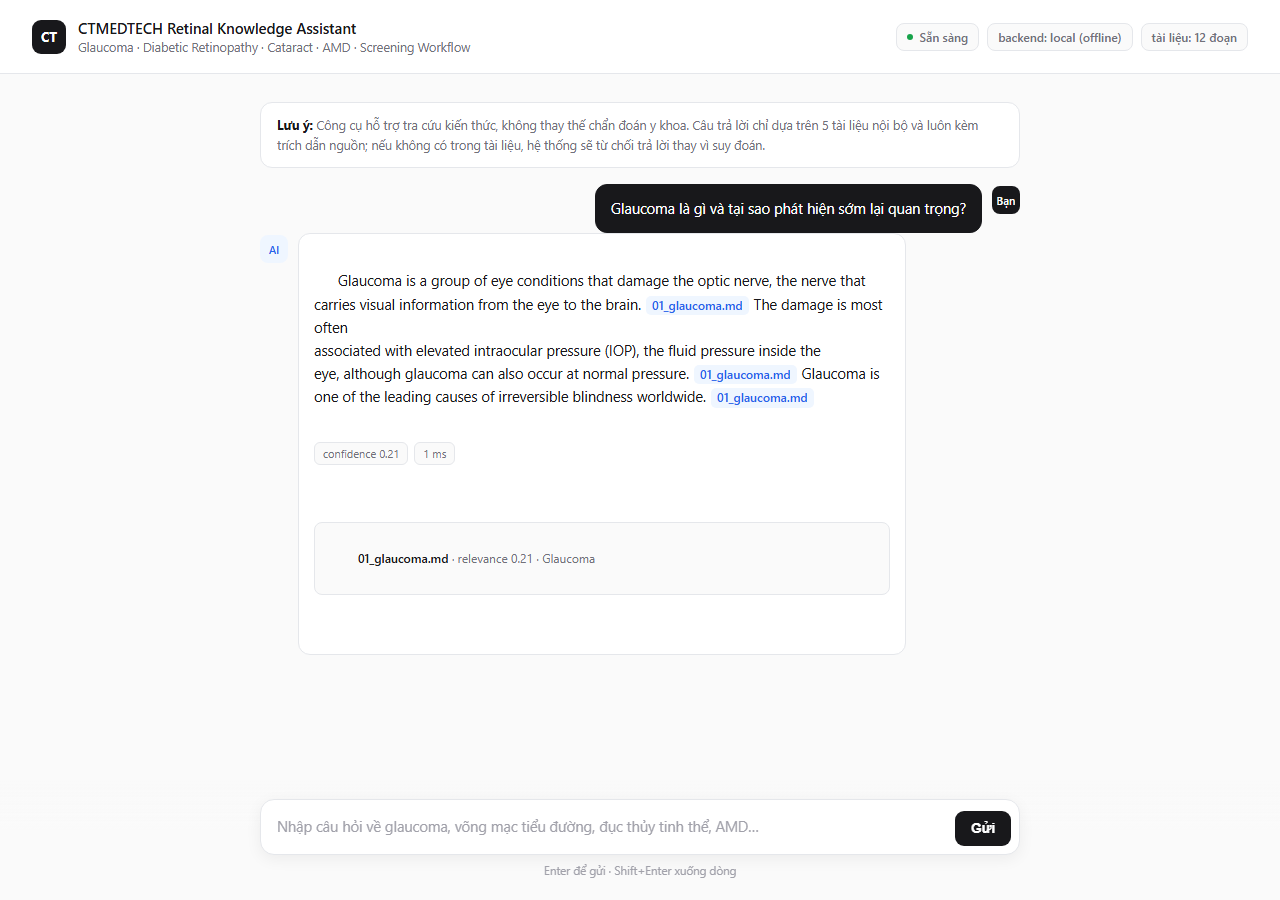
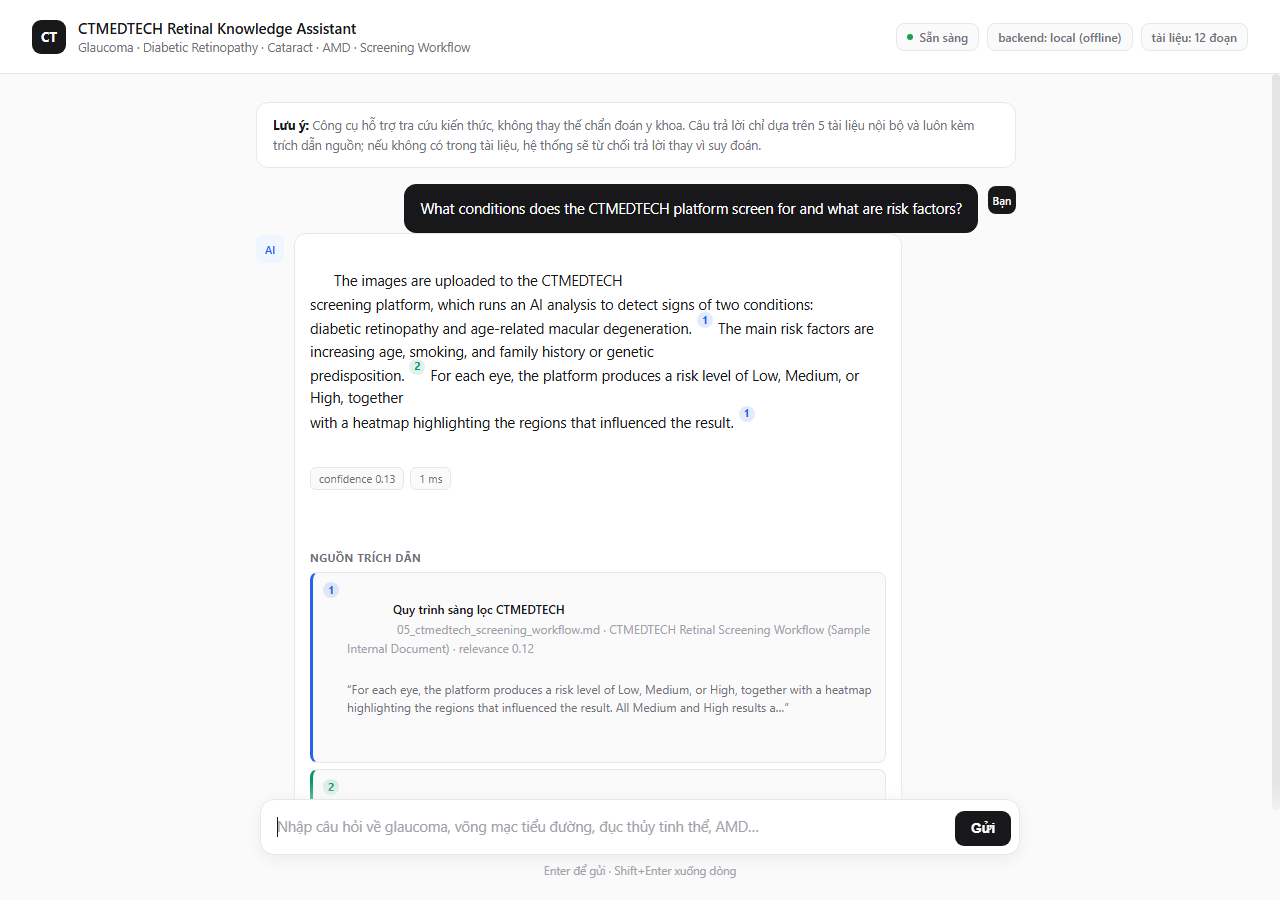
Show citations as numbered, clickable footnote badges with source excerpts
Replaces the plain filename badges with a clearer citation system:
- Each [Source: filename] becomes a small color-coded number, consistent
  for repeat citations of the same source (like academic footnotes).
- A "Nguồn trích dẫn" list below the answer shows, per citation: a
  human-readable document label, filename, section, relevance score, and
  the actual excerpt backing the claim, so every claim can be traced to
  real text instead of just a filename.
- Clicking a citation badge scrolls to and briefly highlights its
  reference card, making the link between claim and source explicit.

Verified live in headless Chrome (real server, real keyboard/click paths,
zero console errors) and re-captured all UI screenshots in docs/screenshots/.

diff --git a/src/static/index.html b/src/static/index.html
@@ -128,15 +128,23 @@
   .msg.bot .bubble.refused{border-color:#fecaca;background:#fef2f2;}
 
   .cite{
-    display:inline-block;
-    background:var(--accent-soft);
-    color:var(--accent);
-    border-radius:5px;
-    padding:0 6px;
-    font-size:12px;
-    font-weight:600;
+    display:inline-flex;
+    align-items:center;
+    justify-content:center;
+    min-width:16px;height:16px;
+    padding:0 4px;
+    border-radius:999px;
+    font-size:10.5px;
+    font-weight:700;
+    line-height:1;
     margin:0 1px;
+    position:relative;
+    top:-4px;
+    cursor:pointer;
+    border:none;
+    transition:.15s transform, .15s box-shadow;
   }
+  .cite:hover{transform:scale(1.15);}
 
   .meta{
     display:flex;gap:6px;flex-wrap:wrap;
@@ -148,13 +156,35 @@
     padding:2px 8px;border-radius:6px;
   }
 
-  .sources{margin-top:10px;display:flex;flex-direction:column;gap:5px;}
+  .ref-title{
+    font-size:11px;font-weight:700;color:var(--muted);
+    text-transform:uppercase;letter-spacing:.04em;
+    margin:12px 0 6px;
+  }
+  .sources{display:flex;flex-direction:column;gap:6px;}
   .source-item{
+    display:flex;gap:8px;
     font-size:12px;color:var(--muted);
     background:var(--bg);border:1px solid var(--border);
-    border-radius:8px;padding:7px 10px;
+    border-left:3px solid var(--border);
+    border-radius:8px;padding:8px 10px;
+    scroll-margin-top:20px;
+    transition:.6s background, .6s border-color;
   }
-  .source-item b{color:var(--text);font-weight:600;}
+  .source-item.flash{background:var(--accent-soft);border-color:var(--accent);}
+  .source-item .ref-num{
+    flex-shrink:0;
+    width:16px;height:16px;border-radius:999px;
+    display:flex;align-items:center;justify-content:center;
+    font-size:10.5px;font-weight:700;margin-top:1px;
+  }
+  .source-item .ref-body{flex:1;min-width:0;}
+  .source-item .ref-head{color:var(--text);font-weight:600;}
+  .source-item .ref-meta{color:var(--muted-2);margin-left:4px;}
+  .source-item .ref-excerpt{
+    display:block;margin-top:3px;color:var(--muted);
+    line-height:1.5;
+  }
 
   .typing{display:flex;gap:4px;padding:5px 0;}
   .typing span{
@@ -236,7 +266,7 @@
       <div class="chips">
         <div class="chip" data-q="Glaucoma là gì và tại sao phát hiện sớm lại quan trọng?">Glaucoma là gì?</div>
         <div class="chip" data-q="Các giai đoạn của bệnh võng mạc tiểu đường là gì?">Giai đoạn võng mạc tiểu đường</div>
-        <div class="chip" data-q="Nền tảng CTMEDTECH sàng lọc những bệnh gì và yếu tố nguy cơ là gì?">Nền tảng CTMEDTECH sàng lọc gì?</div>
+        <div class="chip" data-q="What conditions does the CTMEDTECH platform screen for and what are risk factors?">Nền tảng CTMEDTECH sàng lọc gì? (đa nguồn)</div>
         <div class="chip" data-q="Tỷ lệ thành công của phẫu thuật glaucoma là bao nhiêu?">Tỷ lệ thành công phẫu thuật? (kỳ vọng từ chối)</div>
       </div>
     </div>
@@ -270,12 +300,65 @@ function escapeHtml(s) {
   }[c]));
 }
 
+// Short, human-readable labels for the known knowledge-base documents, so the
+// UI never forces the user to read raw filenames to know what a citation is.
+const DOC_LABELS = {
+  "01_glaucoma.md": "Glaucoma",
+  "02_diabetic_retinopathy.md": "Võng mạc tiểu đường",
+  "03_cataract.md": "Đục thủy tinh thể",
+  "04_amd.md": "Thoái hóa điểm vàng (AMD)",
+  "05_ctmedtech_screening_workflow.md": "Quy trình sàng lọc CTMEDTECH",
+};
+const CITE_COLORS = ["#2563eb", "#059669", "#d97706", "#dc2626", "#7c3aed", "#0891b2"];
+
+function docLabel(source) {
+  return DOC_LABELS[source] || source;
+}
+
+function citeColor(index) {
+  return CITE_COLORS[index % CITE_COLORS.length];
+}
+
+/**
+ * Replace every "[Source: filename]" in the answer with a small numbered,
+ * color-coded badge (like a footnote marker). The same source always gets
+ * the same number, assigned in order of first appearance, so the numbering
+ * lines up 1:1 with the reference list rendered below the answer.
+ * Returns { html, order } where `order` is the list of unique sources in
+ * citation-number order.
+ */
 function linkifyCitations(text) {
   const escaped = escapeHtml(text);
-  return escaped.replace(/\[Source:\s*([^\]]+)\]/g, (m, src) =>
-    `<span class="cite">${src.trim()}</span>`
-  );
+  const order = [];
+  const indexOf = {};
+  const html = escaped.replace(/\[Source:\s*([^\]]+)\]/g, (m, rawSrc) => {
+    const src = rawSrc.trim();
+    if (!(src in indexOf)) {
+      indexOf[src] = order.length;
+      order.push(src);
+    }
+    const n = indexOf[src];
+    const color = citeColor(n);
+    const label = escapeHtml(docLabel(src));
+    return `<sup class="cite" data-ref="ref-${n}" title="${label} (${escapeHtml(src)})" ` +
+      `style="background:${color}22;color:${color};" ` +
+      `onclick="focusReference(${n})">${n + 1}</sup>`;
+  });
+  return { html, order };
 }
+
+// Briefly highlights the reference card a citation badge points to, and
+// scrolls it into view — makes the link between an inline claim and the
+// passage that backs it immediately visible instead of asking the user to
+// scan a plain list.
+function focusReference(n) {
+  const el = document.getElementById(`ref-${n}`);
+  if (!el) return;
+  el.scrollIntoView({ behavior: "smooth", block: "nearest" });
+  el.classList.add("flash");
+  setTimeout(() => el.classList.remove("flash"), 900);
+}
+window.focusReference = focusReference;
 
 function addMessage(role, html) {
   emptyState.style.display = "none";
@@ -331,21 +414,36 @@ async function sendQuestion(question) {
 
     const data = await res.json();
     const bubbleClass = data.refused ? "refused" : "";
-    const answerHtml = linkifyCitations(data.answer);
+    const { html: answerHtml, order: citedSources } = linkifyCitations(data.answer);
 
+    // Best (highest-scoring) retrieved chunk per source, used to show the
+    // actual excerpt backing each numbered citation — not just a filename.
     let sourcesHtml = "";
-    if (data.retrieved_chunks && data.retrieved_chunks.length) {
-      const seen = new Set();
-      const items = data.retrieved_chunks.filter(c => {
-        if (seen.has(c.source)) return false;
-        seen.add(c.source);
-        return true;
-      }).map(c => `
-        <div class="source-item">
-          <b>${escapeHtml(c.source)}</b> · relevance ${c.score.toFixed(2)}${c.section ? " · " + escapeHtml(c.section) : ""}
-        </div>
-      `).join("");
-      sourcesHtml = `<div class="sources">${items}</div>`;
+    if (citedSources.length && data.retrieved_chunks && data.retrieved_chunks.length) {
+      const bestChunkBySource = {};
+      for (const c of data.retrieved_chunks) {
+        const prev = bestChunkBySource[c.source];
+        if (!prev || c.score > prev.score) bestChunkBySource[c.source] = c;
+      }
+      const items = citedSources.map((src, n) => {
+        const c = bestChunkBySource[src];
+        const color = citeColor(n);
+        const excerpt = c ? escapeHtml(c.text).replace(/\s+/g, " ").slice(0, 180) : "";
+        const metaParts = [escapeHtml(src)];
+        if (c && c.section) metaParts.push(escapeHtml(c.section));
+        if (c) metaParts.push(`relevance ${c.score.toFixed(2)}`);
+        return `
+          <div class="source-item" id="ref-${n}" style="border-left-color:${color};">
+            <span class="ref-num" style="background:${color}22;color:${color};">${n + 1}</span>
+            <span class="ref-body">
+              <span class="ref-head">${escapeHtml(docLabel(src))}</span>
+              <span class="ref-meta">${metaParts.join(" · ")}</span>
+              ${excerpt ? `<span class="ref-excerpt">“${excerpt}${c.text.length > 180 ? "…" : ""}”</span>` : ""}
+            </span>
+          </div>
+        `;
+      }).join("");
+      sourcesHtml = `<div class="ref-title">Nguồn trích dẫn</div><div class="sources">${items}</div>`;
     }
 
     const row = addMessage("bot", "");

diff --git a/README.md b/README.md
@@ -81,11 +81,18 @@ The UI works with either backend — start with `RAG_BACKEND=local` to demo full
 or set `ANTHROPIC_API_KEY` for LLM-generated answers. It polls `/health` every 15s to
 show backend/readiness status in the header.
 
+**Citation display:** each `[Source: filename]` in the answer is rendered as a small,
+color-coded numbered badge (like a footnote), reused consistently for the same source.
+A "Nguồn trích dẫn" (references) list below the answer shows, for every cited source:
+a human-readable document label, the filename, section, relevance score, and the actual
+excerpt backing the claim — so a claim can always be traced to the real passage, not just
+a filename. Clicking a citation badge scrolls to and briefly highlights its reference card.
+
 **Screenshots** (`docs/screenshots/`, captured running offline with `RAG_BACKEND=local`):
 
-| Empty state | Answer with citation | Refusal state |
-|---|---|---|
-| ![Empty state](docs/screenshots/01_empty_state.png) | ![Answer with citation](docs/screenshots/02_answer_with_citation.png) | ![Refusal state](docs/screenshots/03_refusal_state.png) |
+| Empty state | Answer with numbered citations | Citation click → highlighted source | Refusal state |
+|---|---|---|---|
+| ![Empty state](docs/screenshots/01_empty_state.png) | ![Answer with citation](docs/screenshots/02_answer_with_citation.png) | ![Citation click flash](docs/screenshots/citation_click_flash.png) | ![Refusal state](docs/screenshots/03_refusal_state.png) |
 
 Example:
 